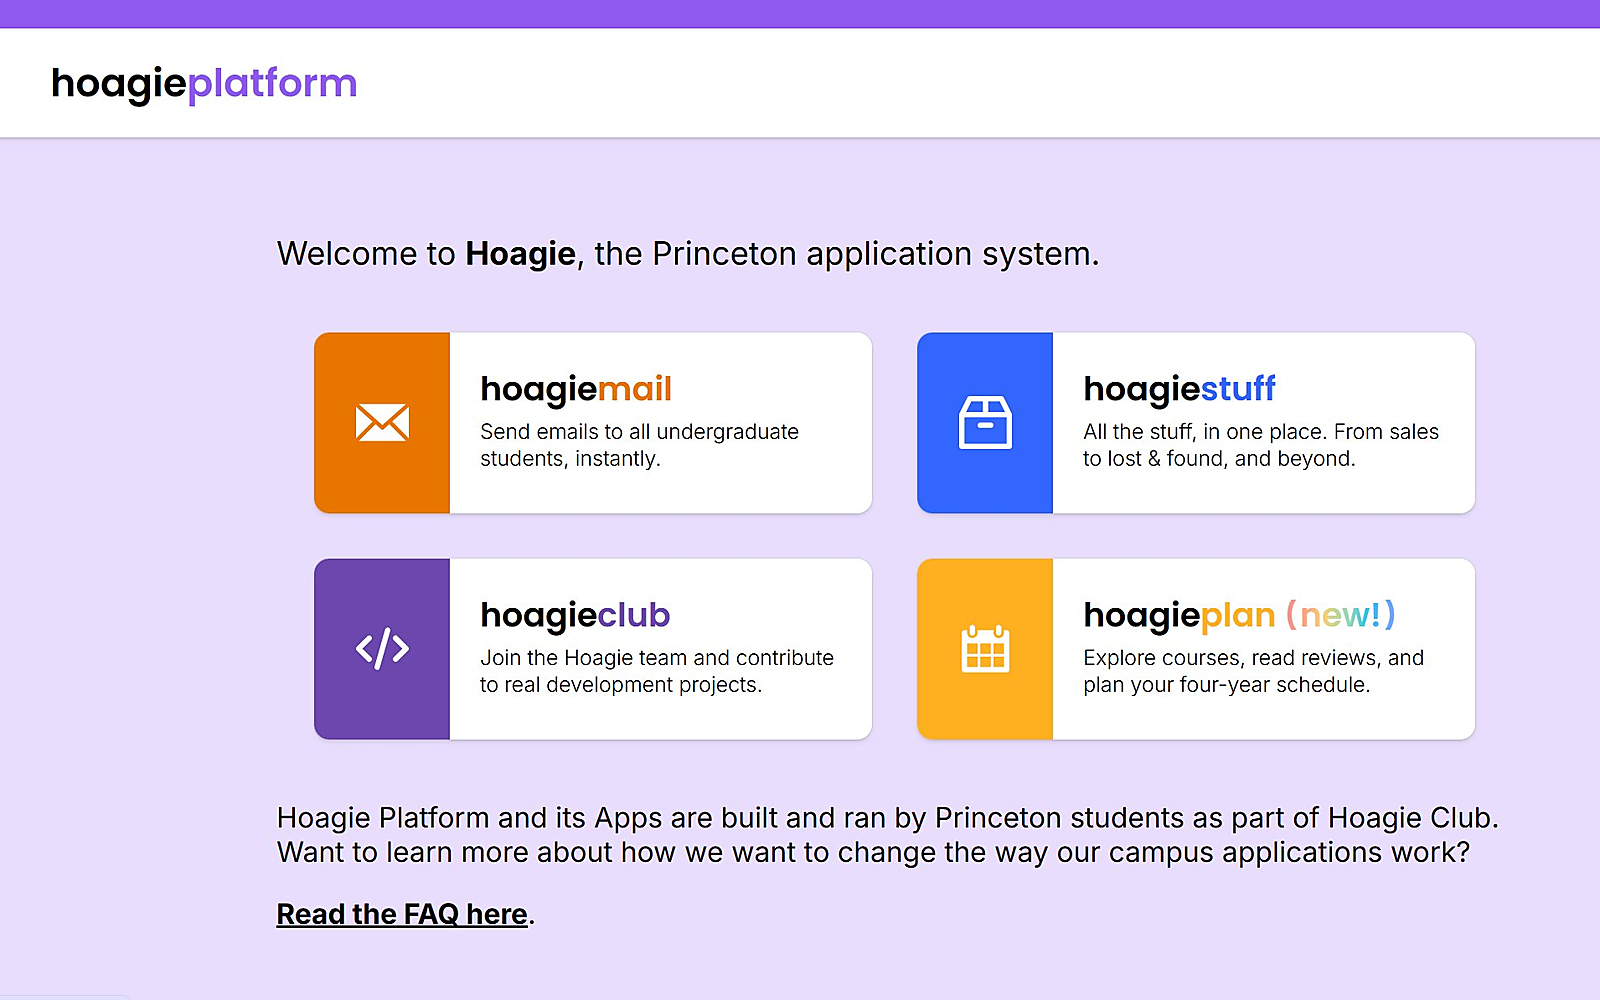
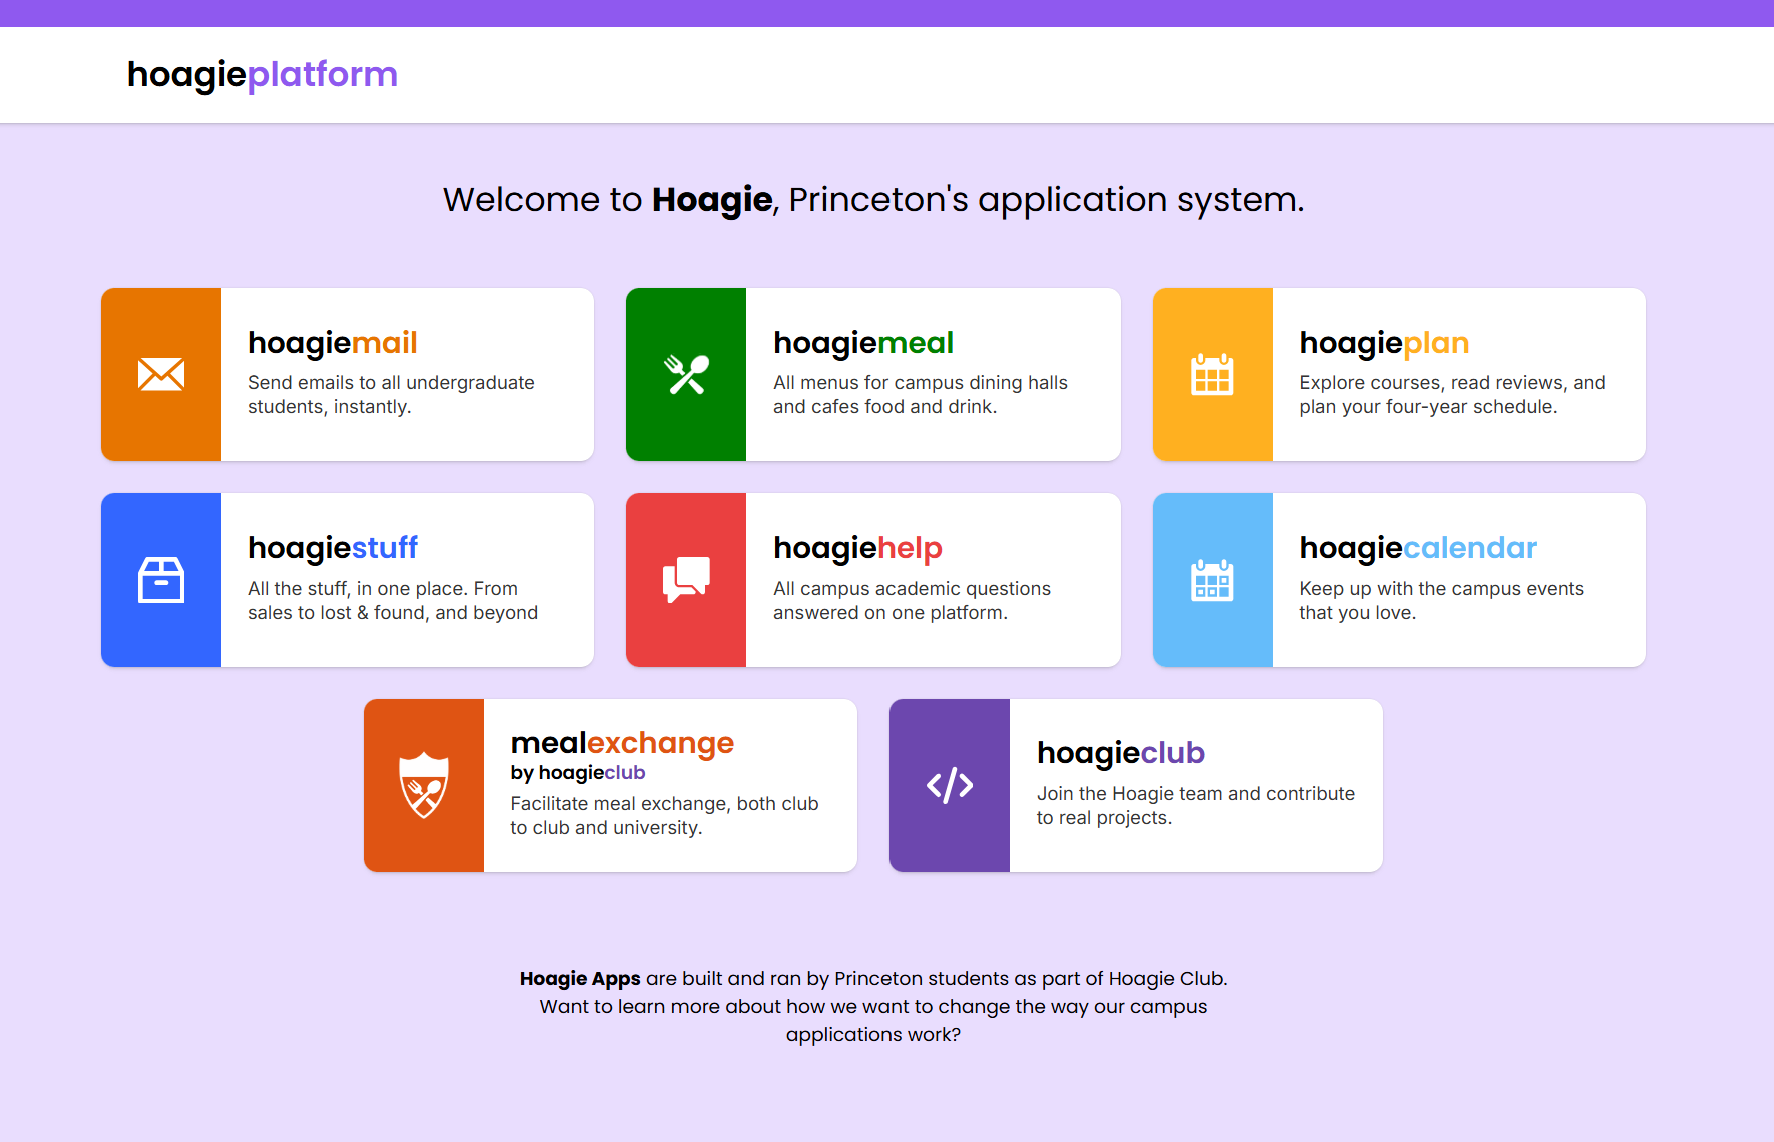
headshot: October portrait under the trees, the cap photo saved for the About slideshow; Hoagie cover: the platform grid
headshot.jpg is the new portrait, rotation baked in, pre-cropped to 4:5 at 1200x1500 (260KB); the 9.5MB original stays unpublished in _source/originals. headshot-cap.jpg is the earlier cap photo at 800x926. The Hoagie hero alt now names eight apps.

diff --git a/case-studies/hoagie.html b/case-studies/hoagie.html
@@ -21,7 +21,7 @@
 </header>
 
 <article>
-  <img class="hero-image" src="../assets/hoagie-apps-showcase-homepage.png" alt="Hoagie apps showcase homepage, all five products" />
+  <img class="hero-image" src="../assets/hoagie-apps-showcase-homepage.png" alt="Hoagie platform homepage, the grid of eight apps" />
   <h1>Rebuilding Hoagie around event discovery.</h1>
   <div class="meta-block">
     <div class="meta">Product manager, then head of product, at Hoagie since September 2025.</div>
